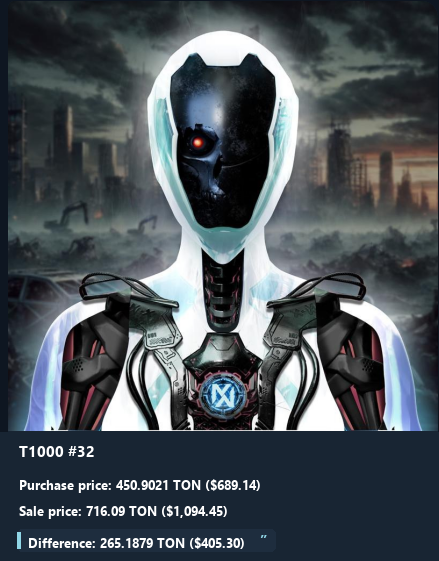
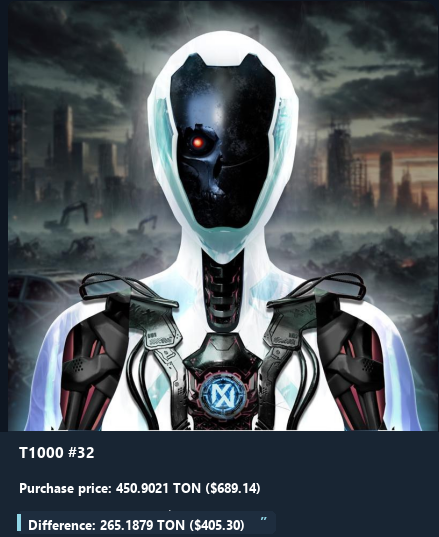
Use EN profit cards with TON/USD like RU layout, no rubles.
English chats get baked-in English labels and dollar amounts plus a short caption.

diff --git a/backend/services/dailyPhotos.js b/backend/services/dailyPhotos.js
@@ -162,9 +162,7 @@ function getImagesFoldersRu() {
 }
 
 function getImagesFoldersEn() {
-  // EN: арт без панели + цифры в caption; если арта нет — EN-карточки.
-  const art = String(process.env.IMAGES_FOLDER_ART || '').trim();
-  if (art) return [art];
+  // EN-карточки того же формата, что RU, но TON/$ (без рублей).
   return [process.env.IMAGES_FOLDER_EN, process.env.IMAGES_FOLDER_EN_2]
     .filter((folder) => folder && folder.trim())
     .map((folder) => folder.trim());
@@ -179,11 +177,8 @@ function pickFlipSend(isRussian) {
   const folders = isRussian ? getImagesFoldersRu() : getImagesFoldersEn();
   const imagePath = pickRandomImage(folders);
   if (!imagePath) return null;
-  // RU: цифры уже на карточке — только короткая живая подпись.
-  // EN: арт + цены в подписи сообщения.
-  const caption = isRussian
-    ? pickRandomHook(true)
-    : buildFlipCaption(imagePath, false);
+  // И RU, и EN: цифры уже на карточке — только короткая живая подпись.
+  const caption = pickRandomHook(isRussian);
   return { imagePath, caption };
 }
 
@@ -385,7 +380,7 @@ async function sendDuePhotos() {
       const flip = pickFlipSend(isRussian);
       if (!flip) {
         console.error(
-          'Нет фото для daily flip (IMAGES_FOLDER для RU / IMAGES_FOLDER_ART для EN).',
+          'Нет фото для daily flip (IMAGES_FOLDER для RU / IMAGES_FOLDER_EN для EN).',
         );
         continue;
       }

diff --git a/backend/scripts/make_en_profit_images.py b/backend/scripts/make_en_profit_images.py
@@ -1,5 +1,5 @@
 #!/usr/bin/env python3
-"""English profit screenshots: original NFT art + Telegram-like panel (matches RU layout)."""
+"""EN profit cards: same layout as RU originals, TON + USD only (no rubles)."""
 from __future__ import annotations
 
 import os
@@ -10,45 +10,43 @@ SRC = os.path.join(HERE, "..", "images_folder_probe")
 SRC_FALLBACK = os.path.join(HERE, "..", "images_folder")
 OUT = os.path.join(HERE, "..", "images_folder_en")
 
+# Exact panel starts from RU originals; keep same canvas size (no extend).
 SPECS = [
     {
         "file": "profits1.png",
         "panel_y": 432,
-        "extend": 24,
         "title": "T1000 #32",
         "buy": ("450.9021", "689.14"),
         "sell": ("716.09", "1,094.45"),
         "diff": ("265.1879", "405.30"),
         "theme": "dark",
         "pad_x": 19,
-        "title_dy": 8,
-        "gap_title": 18,
-        "gap_lines": 8,
-        "gap_before_diff": 10,
+        "title_dy": 9,
+        "gap_title": 20,
+        "gap_lines": 10,
+        "gap_before_diff": 12,
         "fs_title": 15,
         "fs_body": 13,
     },
     {
         "file": "profits2.jpg",
         "panel_y": 608,
-        "extend": 0,
         "title": "BOXER #25",
         "buy": ("301.5967", "332.64"),
         "sell": ("578.22", "637.75"),
         "diff": ("276.6233", "305.10"),
         "theme": "light",
         "pad_x": 43,
-        "title_dy": 28,
-        "gap_title": 42,
-        "gap_lines": 28,
-        "gap_before_diff": 32,
+        "title_dy": 25,
+        "gap_title": 48,
+        "gap_lines": 36,
+        "gap_before_diff": 40,
         "fs_title": 26,
         "fs_body": 22,
     },
     {
         "file": "profits3.png",
         "panel_y": 432,
-        "extend": 24,
         "title": "Meebit #18494",
         "buy": ("232.6196", "355.53"),
         "sell": ("460.91", "704.44"),
@@ -56,26 +54,25 @@ SPECS = [
         "theme": "dark",
         "pad_x": 15,
         "title_dy": 8,
-        "gap_title": 18,
-        "gap_lines": 8,
-        "gap_before_diff": 10,
+        "gap_title": 20,
+        "gap_lines": 10,
+        "gap_before_diff": 12,
         "fs_title": 14,
         "fs_body": 13,
     },
     {
         "file": "profits4.png",
         "panel_y": 432,
-        "extend": 24,
         "title": "alien fren #9671",
         "buy": ("872.98", "1,334.23"),
-        "sell": ("1043.24", "1,594.45"),
+        "sell": ("1,043.24", "1,594.45"),
         "diff": ("170.26", "260.22"),
         "theme": "dark",
         "pad_x": 14,
-        "title_dy": 8,
-        "gap_title": 18,
-        "gap_lines": 8,
-        "gap_before_diff": 10,
+        "title_dy": 9,
+        "gap_title": 20,
+        "gap_lines": 10,
+        "gap_before_diff": 12,
         "fs_title": 14,
         "fs_body": 13,
     },
@@ -121,18 +118,11 @@ def render(spec: dict) -> str:
     base = Image.open(src_path(spec["file"])).convert("RGBA")
     w, h = base.size
     panel_y = spec["panel_y"]
-    extend = int(spec["extend"])
     theme = spec["theme"]
     bg = sample_panel_bg(base, panel_y)
-
-    if extend:
-        im = Image.new("RGBA", (w, h + extend), bg + (255,))
-        im.paste(base, (0, 0))
-    else:
-        im = base.copy()
-
+    im = base.copy()
     draw = ImageDraw.Draw(im)
-    draw.rectangle((0, panel_y, w, im.size[1]), fill=bg + (255,))
+    draw.rectangle((0, panel_y, w, h), fill=bg + (255,))
 
     font_title = ImageFont.truetype(find_font(True), spec["fs_title"])
     font_body = ImageFont.truetype(find_font(True), spec["fs_body"])
@@ -173,13 +163,9 @@ def render(spec: dict) -> str:
     box_w = min(w - box_x - 8, tw + pad_x * 2 + bar_w + 18)
     box_h = th + pad_y * 2
 
-    # ensure quote fits
-    if y + box_h > im.size[1] - 4:
-        extra = y + box_h + 6 - im.size[1]
-        bigger = Image.new("RGBA", (w, im.size[1] + extra), bg + (255,))
-        bigger.paste(im, (0, 0))
-        im = bigger
-        draw = ImageDraw.Draw(im)
+    # Keep quote fully inside original canvas (same size as RU card).
+    if y + box_h > h - 4:
+        y = max(panel_y + 8, h - 4 - box_h)
 
     draw.rounded_rectangle(
         (box_x, y, box_x + box_w, y + box_h),
